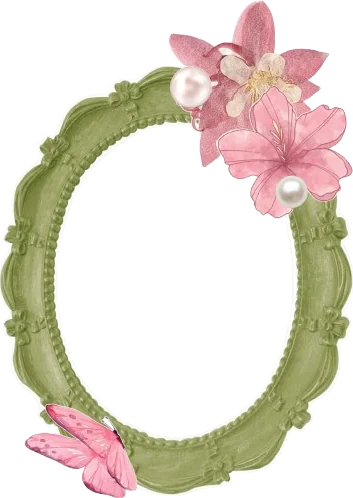
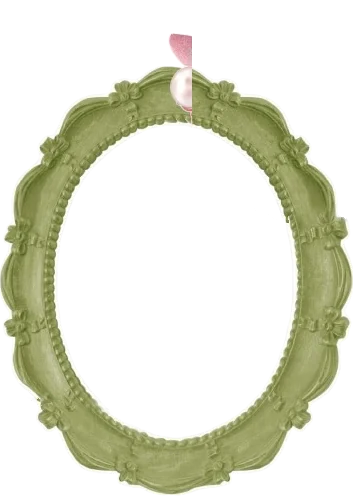
Lili (animasi 1/4): gerakan hidup bunga, kupu-kupu & angsa
- Bingkai hero/penutup dipisah jadi 3 lapisan (bingkai, lili, kupu-kupu;
  bagian bingkai yang tertutup diisi cermin sisi seberang): lili bergoyang di
  pangkalnya, kupu-kupu melayang & mengepak
- Kolom bunga tepi: angin pelan, fase dari jam bersama & tidak dijeda agar
  section bersebelahan tetap serempak tanpa sambungan
- Bunga Acara, buket Love Story (tempo acak per buket), lili & anggrek
  Ucapan bergoyang; angsa mengapung naik-turun
- Mode ringan: hanya kepak kupu-kupu; reduced-motion: semua diam

Changed region(s): [[0.5297, 0.0, 1.0, 0.4518], [0.0623, 0.7831, 0.4051, 1.0]]

diff --git a/src/themes/lili/theme.css b/src/themes/lili/theme.css
@@ -226,11 +226,123 @@
   transform: none;
 }
 
+/* ---------- Gerakan hidup (berjalan selama section terlihat; dijeda runtime
+   di luar layar). Memakai properti rotate/translate/scale terpisah agar tidak
+   menimpa transform inline (cermin/rotasi posisi). ---------- */
+@keyframes li-sway {
+  from {
+    rotate: calc(var(--amp, 1.6deg) * -1);
+  }
+  to {
+    rotate: var(--amp, 1.6deg);
+  }
+}
+@keyframes li-breeze {
+  0%,
+  100% {
+    translate: 0 0;
+    rotate: 0deg;
+  }
+  50% {
+    translate: calc(var(--dir, 1) * 0.7cqw) 0;
+    rotate: calc(var(--dir, 1) * 0.35deg);
+  }
+}
+@keyframes li-bob {
+  0%,
+  100% {
+    translate: 0 0;
+  }
+  50% {
+    translate: 0 -0.8cqw;
+  }
+}
+@keyframes li-flutter {
+  0%,
+  62%,
+  100% {
+    scale: 1 1;
+  }
+  70% {
+    scale: 0.55 1;
+  }
+  78% {
+    scale: 1 1;
+  }
+  86% {
+    scale: 0.62 1;
+  }
+}
+@keyframes li-hover {
+  0%,
+  100% {
+    translate: 0 0;
+    rotate: 0deg;
+  }
+  50% {
+    translate: 0.4cqw -1cqw;
+    rotate: -3deg;
+  }
+}
+/* lili di bingkai: berporos di pangkal (dekat mutiara kiri atas rangkaian) */
+[data-theme="lili"] .li-sway-lily {
+  transform-origin: 54% 17.5%;
+  --amp: 1.8deg;
+  animation: li-sway 4.6s ease-in-out infinite alternate;
+}
+/* kupu-kupu: melayang + mengepak (sayap menyempit ke arah badan) */
+[data-theme="lili"] .li-bfly {
+  transform-origin: 34% 88%;
+  animation: li-hover 5.2s ease-in-out infinite;
+}
+[data-theme="lili"] .li-bfly-wing {
+  transform-origin: 34% 88%;
+  animation: li-flutter 3.2s ease-in-out infinite;
+}
+/* bunga gantung/tegak umum (data-sway="hang|stand|corner") */
+[data-theme="lili"] [data-sway] {
+  animation: li-sway var(--sdur, 5s) ease-in-out var(--sdly, 0s) infinite alternate;
+}
+[data-theme="lili"] [data-sway="hang"] {
+  transform-origin: 50% 0;
+}
+[data-theme="lili"] [data-sway="stand"] {
+  transform-origin: 50% 100%;
+}
+/* kolom bunga tepi: angin pelan, poros di tepi layar */
+[data-theme="lili"] .li-column {
+  animation: li-breeze 7s ease-in-out infinite;
+}
+/* kolom tidak dijeda di luar layar: harus serempak antarsection (murah,
+   hanya transform di compositor) */
+[data-theme="lili"] [data-inv-section]:not([data-inview]) .li-column {
+  animation-play-state: running !important;
+}
+/* angsa mengapung */
+[data-theme="lili"] .li-float {
+  animation: li-bob 4.8s ease-in-out infinite;
+}
+
+[data-theme="lili"][data-lite] .li-sway-lily,
+[data-theme="lili"][data-lite] .li-bfly,
+[data-theme="lili"][data-lite] [data-sway],
+[data-theme="lili"][data-lite] .li-column,
+[data-theme="lili"][data-lite] .li-float {
+  animation: none;
+}
+/* mode ringan: tetap satu gerakan kecil (kepak kupu-kupu) */
+
 @media (prefers-reduced-motion: reduce) {
   [data-theme="lili"] .li-c-rise,
   [data-theme="lili"] .li-c-names,
   [data-theme="lili"] .li-c-lace,
-  [data-theme="lili"] .li-c-seal {
+  [data-theme="lili"] .li-c-seal,
+  [data-theme="lili"] .li-sway-lily,
+  [data-theme="lili"] .li-bfly,
+  [data-theme="lili"] .li-bfly-wing,
+  [data-theme="lili"] [data-sway],
+  [data-theme="lili"] .li-column,
+  [data-theme="lili"] .li-float {
     animation: none;
   }
   [data-theme="lili"] .li-sec [data-a] {

diff --git a/src/themes/lili/art/HeroFrame.tsx b/src/themes/lili/art/HeroFrame.tsx
@@ -6,11 +6,12 @@ import type { Photo } from "@/schemas/common";
 import { box, u } from "../canvas";
 import { HERO_FRAME } from "./hero-frame";
 import frameImg from "./hero-frame.webp";
+import butterflyImg from "./hero-butterfly.webp";
+import lilyImg from "./hero-lily.webp";
 
 /**
  * Komposisi bingkai hero & penutup dari gambar milik pemilik (bingkai oval
- * vintage + alas pink + lili + mutiara + kupu-kupu), diolah oleh
- * saat diolah. Foto diletakkan di bawah gambar, tepat di
+ * vintage + lili + mutiara + kupu-kupu), dipisah jadi tiga lapisan. Foto diletakkan di bawah gambar, tepat di
  * lubang elipsnya. `w` = lebar komposisi (px kanvas).
  */
 export function HeroFrame({
@@ -67,6 +68,8 @@ export function HeroFrame({
           filter: `var(--inv-filter-frame, saturate(1)) drop-shadow(0 ${u(2)} ${u(3)} rgb(60 60 40 / 0.25))`,
         }}
       >
+        {/* bingkai bersih; lili & kupu-kupu lapisan sendiri (sama ukuran) agar
+            bisa bergerak: lili bergoyang di pangkalnya, kupu-kupu mengepak */}
         <Image
           src={frameImg}
           alt=""
@@ -74,6 +77,26 @@ export function HeroFrame({
           sizes="(max-width: 440px) 72vw, 320px"
           priority={priority}
         />
+        <div className="li-sway-lily" style={{ position: "absolute", inset: 0 }}>
+          <Image
+            src={lilyImg}
+            alt=""
+            fill
+            sizes="(max-width: 440px) 72vw, 320px"
+            priority={priority}
+          />
+        </div>
+        <div className="li-bfly" style={{ position: "absolute", inset: 0 }}>
+          <div className="li-bfly-wing" style={{ position: "absolute", inset: 0 }}>
+            <Image
+              src={butterflyImg}
+              alt=""
+              fill
+              sizes="(max-width: 440px) 72vw, 320px"
+              priority={priority}
+            />
+          </div>
+        </div>
       </div>
     </>
   );

diff --git a/src/themes/lili/art/FloralColumn.tsx b/src/themes/lili/art/FloralColumn.tsx
@@ -1,5 +1,7 @@
 "use client";
 
+import { useEffect, useRef } from "react";
+
 import { u } from "../canvas";
 import column from "./floral-column.webp";
 
@@ -21,6 +23,8 @@ const TILE_H = 140;
 const TILE_W = (TILE_H * column.width) / column.height;
 /** Bagian kolom yang keluar tepi layar (px kanvas). */
 const BLEED = 26;
+/** Periode goyangan kolom (sama dengan li-breeze di theme.css). */
+const BREEZE_MS = 7000;
 
 export function FloralColumn({
   from,
@@ -35,12 +39,22 @@ export function FloralColumn({
   side?: "left" | "right";
   z?: number;
 }) {
+  const ref = useRef<HTMLDivElement | null>(null);
+  // fase goyangan diambil dari jam bersama → kolom di section bersebelahan
+  // bergerak serempak (tanpa sambungan), berapa pun waktu pasangnya
+  useEffect(() => {
+    if (ref.current) ref.current.style.animationDelay = `${-(performance.now() % BREEZE_MS)}ms`;
+  }, []);
   return (
     <div
+      ref={ref}
       aria-hidden
+      className="li-column"
       style={{
         position: "absolute",
         top: 0,
+        transformOrigin: side === "right" ? "100% 50%" : "0 50%",
+        ["--dir" as string]: side === "right" ? -1 : 1,
         right: side === "right" ? u(-BLEED) : undefined,
         left: side === "left" ? u(-BLEED) : undefined,
         width: u(TILE_W),

diff --git a/src/themes/lili/sections/Wishes.tsx b/src/themes/lili/sections/Wishes.tsx
@@ -160,7 +160,11 @@ export function LiliWishes() {
           menumpang ujung atas pita renda */}
       <div
         aria-hidden
+        data-sway="corner"
         style={{
+          transformOrigin: "100% 0",
+          ["--amp" as string]: "2deg",
+          ["--sdur" as string]: "5.2s",
           position: "absolute",
           right: u(-20),
           top: u(-4),
@@ -176,6 +180,7 @@ export function LiliWishes() {
           tepi kiri-bawah seperti desain */}
       <div
         aria-hidden
+        data-sway="corner"
         style={{
           position: "absolute",
           left: u(-30),
@@ -183,6 +188,10 @@ export function LiliWishes() {
           width: u(140),
           height: u((140 * orchid.height) / orchid.width),
           transform: "rotate(32deg)",
+          transformOrigin: "0 100%",
+          ["--amp" as string]: "2.2deg",
+          ["--sdur" as string]: "4.6s",
+          ["--sdly" as string]: "-1.5s",
           pointerEvents: "none",
         }}
       >

diff --git a/src/themes/lili/sections/Event.tsx b/src/themes/lili/sections/Event.tsx
@@ -172,11 +172,15 @@ export function LiliEvent() {
       <div
         aria-hidden
         data-a="fade"
+        data-sway="corner"
         style={{
           position: "absolute",
           right: 0,
           top: 0,
           transform: "scaleX(-1)",
+          transformOrigin: "100% 0",
+          ["--amp" as string]: "2.6deg",
+          ["--sdur" as string]: "5.4s",
           width: u(363 * K),
           height: u(255 * K),
           pointerEvents: "none",
@@ -187,11 +191,16 @@ export function LiliEvent() {
       <div
         aria-hidden
         data-a="fade"
+        data-sway="corner"
         style={{
           position: "absolute",
           left: 0,
           bottom: 0,
           transform: "scaleX(-1)",
+          transformOrigin: "0 100%",
+          ["--amp" as string]: "2.8deg",
+          ["--sdur" as string]: "4.8s",
+          ["--sdly" as string]: "-2s",
           width: u(256 * K),
           height: u(590 * K),
           pointerEvents: "none",

diff --git a/src/themes/lili/sections/LoveStory.tsx b/src/themes/lili/sections/LoveStory.tsx
@@ -42,10 +42,16 @@ const FRONT: B[] = [...both(SIDE_FRONT), ...both(BOTTOM), { x: 150, y: 236, s: 1
 
 function Bouquet({ x, y, s, rot = 0, flip, mirror }: B) {
   const scaleX = (flip ? -1 : 1) * (mirror ? -1 : 1);
+  // tempo & fase berbeda per buket agar tidak bergoyang serempak
+  const seed = Math.abs(x * 7 + y * 3 + (mirror ? 11 : 0));
   return (
     <div
       aria-hidden
+      data-sway="stand"
       style={{
+        ["--amp" as string]: "1.5deg",
+        ["--sdur" as string]: `${(4.4 + (seed % 17) / 10).toFixed(1)}s`,
+        ["--sdly" as string]: `${(-(seed % 30) / 10).toFixed(1)}s`,
         position: "absolute",
         left: mirror ? undefined : u(x),
         right: mirror ? u(x) : undefined,

diff --git a/src/themes/lili/art/Swans.tsx b/src/themes/lili/art/Swans.tsx
@@ -22,7 +22,9 @@ export function SwanPair({
 }) {
   return (
     <div className={className} style={style} aria-hidden>
-      <Image src={swans} alt="" fill sizes="(max-width: 440px) 64vw, 280px" />
+      <div className="li-float" style={{ position: "absolute", inset: 0 }}>
+        <Image src={swans} alt="" fill sizes="(max-width: 440px) 64vw, 280px" />
+      </div>
     </div>
   );
 }
